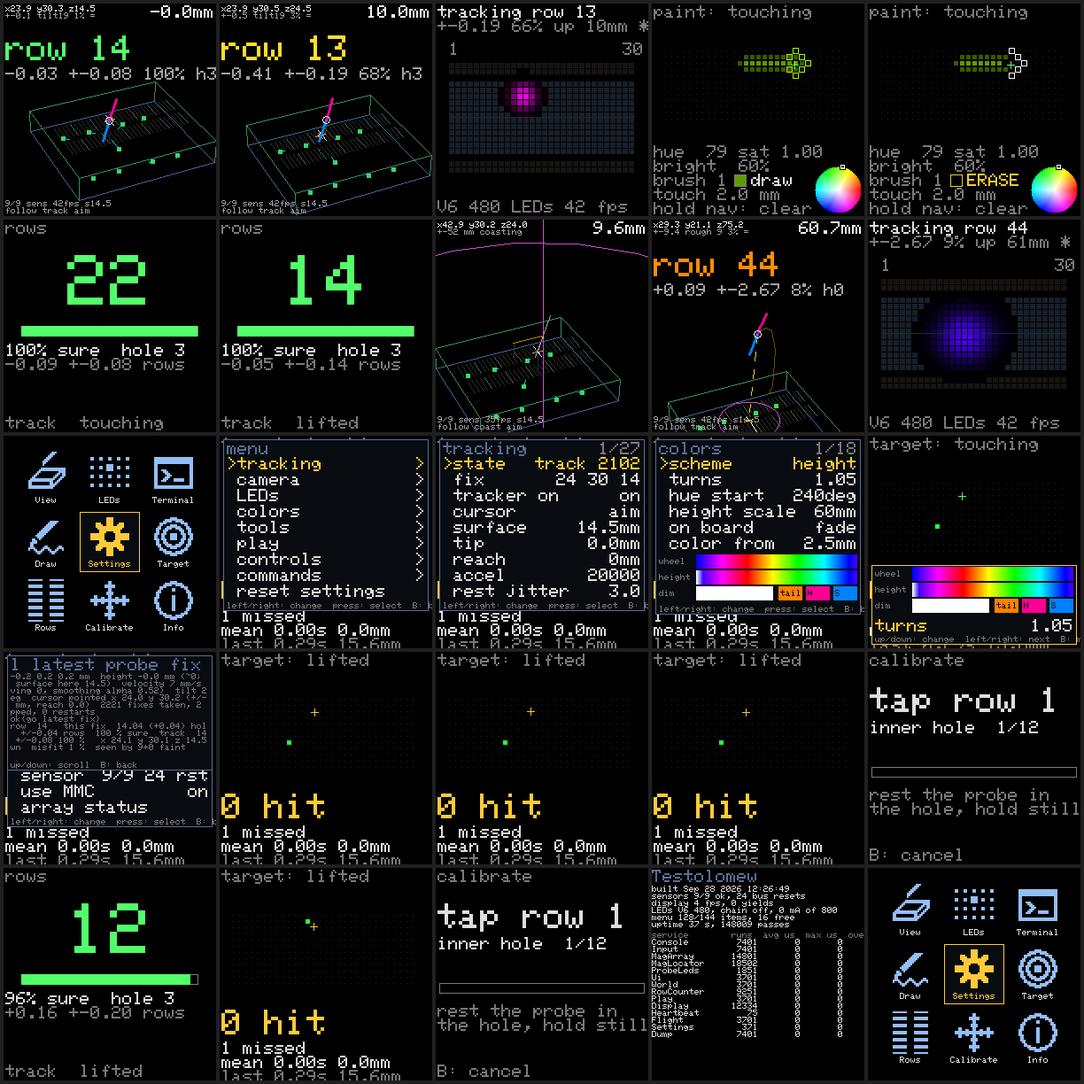
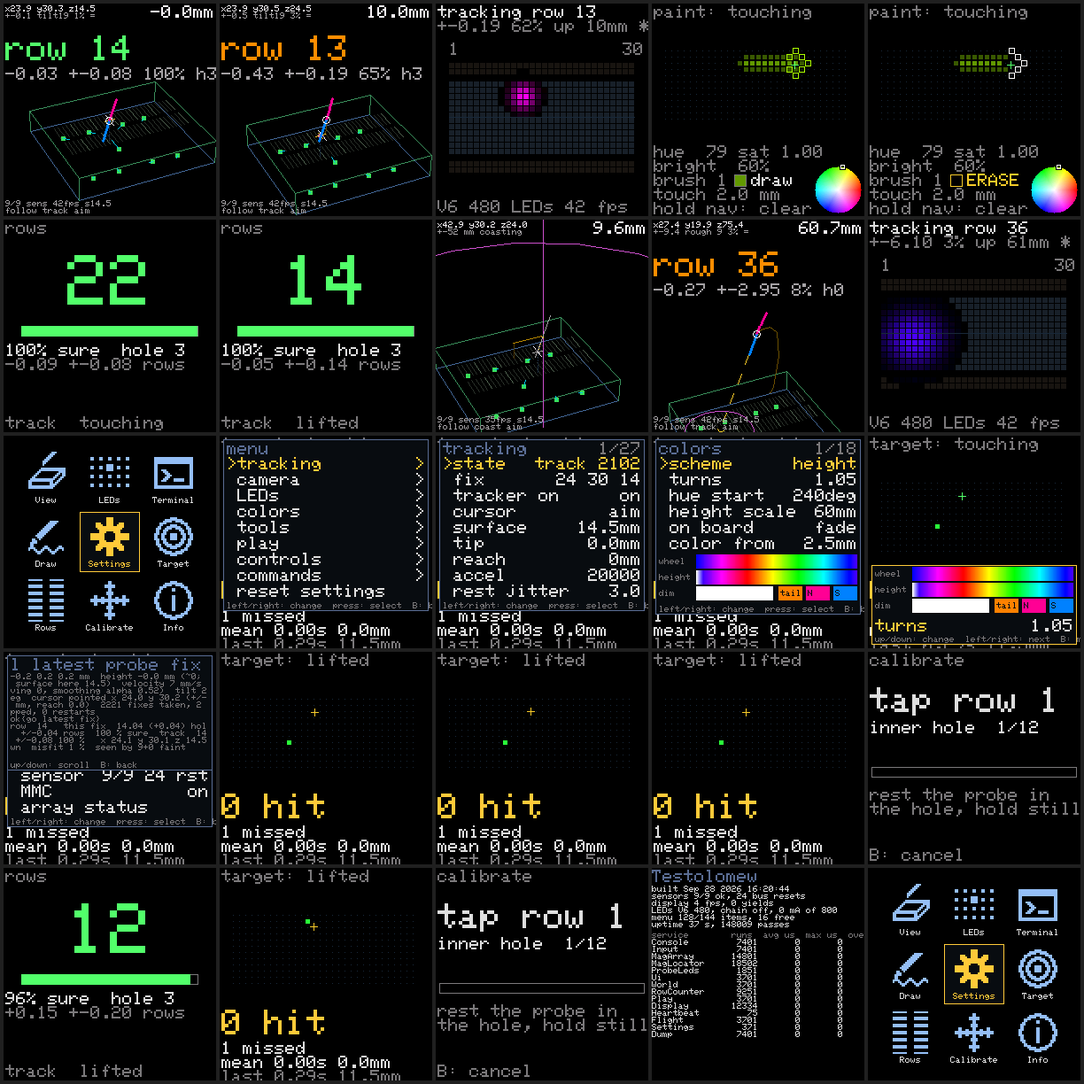
The MMC far only, and presence soft (Kevin, 2026-09-28: "we should use the mmc at far distances only (use mmc on - far - off), and make the gate for presence lower and smooth"). The tools page's "MMC" is a three-way, off / far / on (MagArray::mmcMode, MAG_MMC_MODE_AT_BOOT far, :mmc on|far|off; "use 

diff --git a/src/apps/SettingsMenu.cpp b/src/apps/SettingsMenu.cpp
@@ -261,8 +261,8 @@ void settingsMenuBuild( Menu* m ) {
                  "The array's systematic error, mm, added to every fix's error bar. The tracker's gate and weights use it, and the LED spot's width." );
     menuAddNumber( m, tracking, "gate", &magLocator.track.gate, 2.0f, 8.0f, 0.5f, "sd",
                  "A fix further than this many error bars from the track counts for less; past 11 it is dropped. Lower: more fixes ignored on a jump. Tracker on only." ); // (to 10 until 2026-09-25: the drop line is 11.3, past 8 the soft zone is nothing)
-    menuAddNumber( m, tracking, "presence", &magLocator.presentMt, 0.02f, 0.20f, 0.01f, "mT",
-                 "The strongest reading, mT, above which a magnet is there - two TMAGs must read it. Lower reaches further out; too low and a sensor's zero drift passes as a magnet (the toggles on :load say)." ); // (0.04-0.20 on 2026-09-25: below the TMAGs' plain level the lever did nothing, presence needing two of them at 0.04 anyway; since 2026-09-26 the two TMAGs are asked for the lever's level, so below 0.04 it reaches further out - as far as the zeros' drift allows)
+    menuAddNumber( m, tracking, "presence", &magLocator.presentMt, 0.005f, 0.20f, 0.005f, "mT",
+                 "The strongest reading, mT, above which a magnet is there - two TMAGs must read it, or the MMC. Lower reaches further out; too low and a sensor's zero drift passes as a magnet (the toggles on :load say). The LEDs fade in over the band from half of this to one and a half times it, so the far edge is soft." ); // (0.04-0.20 on 2026-09-25: below the TMAGs' plain level the lever did nothing, presence needing two of them at 0.04 anyway; since 2026-09-26 the two TMAGs are asked for the lever's level, so below 0.04 it reaches further out - as far as the zeros' drift allows)
     menuAddNumber( m, tracking, "fit chi", &magLocator.fitMaxChi, 1.0f, 6.0f, 0.5f, "",
                  "The fit's acceptance: its leftover residuals over the sensors' own errors. About 1 is a fit as good as the readings. Higher accepts more frames, wrong ones included; lower refuses more, and a refused frame is a gap." );
     menuAddNumber( m, tracking, "far hold", &magLocator.track.roughHoldS, 0.5f, 10.0f, 0.5f, "s",
@@ -384,8 +384,8 @@ void settingsMenuBuild( Menu* m ) {
     menuAddAction( m, tools, "latest fix", 'l', runConsoleKey, false );
     menuAddInfo( m, tools, "sensors", sensorsInfo,
                  "How many sensors answer, and the frame rate. Info only." );
-    menuAddToggle( m, tools, "use MMC", &magArray.useMmc,
-                 "The MMC56x3 at the centre in the fit, or ignored. It is the far sensor, 30-50x quieter than a TMAG, but near the board its readings have been sketchy." ); // the MMC56x3 in the fit or ignored (MAG_USE_MMC_AT_BOOT: off)
+menuAddChoice( m, tools, "MMC", &magArray.mmcMode, magMmcModeNames, MAG_MMC_MODE_COUNT,
+                   "The MMC56x3 at the centre, 30-50x quieter than a TMAG. off: read and shown, ignored. far: in the fit only as the TMAGs' error bar opens up (from 8 mm, all in at 16) and out near the board, where its readings have been sketchy; its word counts for presence, so a far probe is met sooner. on: in throughout." ); // the MMC56x3 in the fit or ignored (MAG_USE_MMC_AT_BOOT: off)
     menuAddAction( m, tools, "array status", 'm', runConsoleKey, false );
     menuAddAction( m, tools, "bus check", 'b', runConsoleKey, false );
     menuAddAction( m, tools, "power-cycle", 'p', runConsoleKey, true );

diff --git a/src/magfit/MagLocator.cpp b/src/magfit/MagLocator.cpp
@@ -607,6 +607,25 @@ ServiceStatus MagLocator::fitFrame( MagTrackInput* in ) {
     // (MagArray::frameWeights - the MMC56x3 counts for ~37 TMAGs where it
     // reads noise, for one close in).
     magArray.frameWeights( smooth, f.weights );
+    // How open the direction is (0 with the TMAGs' bar under MAGLOC_PRIOR_FROM_MM,
+    // 1 at twice it): the axis prior's weight, and - the MMC in its far mode -
+    // the MMC's share of the fit, ramped in as the TMAGs run out of reach and
+    // out of the fit near the board, where its readings have been sketchy
+    // (2026-09-28, Kevin: "use the mmc at far distances only").
+    {
+        float lastBar = fix.valid ? fix.errorMm : 2.0f * MAGLOC_PRIOR_FROM_MM;
+        f.far = ( lastBar - MAGLOC_PRIOR_FROM_MM ) / MAGLOC_PRIOR_FROM_MM;
+        f.far = f.far < 0.0f ? 0.0f : ( f.far > 1.0f ? 1.0f : f.far );
+        if ( magArray.mmcMode == MAG_MMC_FAR ) {
+            for ( int i = 0; i < magArray.sensorCount( ) && i < MAGFIT_MAX_SENSORS; i++ ) {
+                if ( magSensorPlaces[ i ].type != MAG_MMC56X3 )
+                    continue;
+                f.weights[ i ] *= f.far;
+                if ( f.far <= 0.0f )
+                    f.use[ i ] = false; // not even in the chi: near the board it is not a witness
+            }
+        }
+    }
     // The Z axis counts by its quietness, as far as the noise is the error: near
     // the magnet the error is the model's share of the field (MAG_MODEL_ERROR:
     // the table's gains and places, the dipole approximation), on every axis
@@ -627,7 +646,7 @@ ServiceStatus MagLocator::fitFrame( MagTrackInput* in ) {
     // the sensor that sees a far probe alone. Without it, one TMAG5273 above
     // the seen level is its stale zero after a boot, and this clause would
     // run the lattice on it every 400 ms until the absorb took it.)
-    f.enough = fix.seenBy + fix.faintBy >= MAGLOC_MIN_SENSORS || ( f.held > 0.0f && magArray.useMmc && fix.seenBy >= 1 );
+    f.enough = fix.seenBy + fix.faintBy >= MAGLOC_MIN_SENSORS || ( f.held > 0.0f && magArray.mmcMode != MAG_MMC_OFF && fix.seenBy >= 1 );
     ServiceStatus status;
     if ( !fix.present || !f.enough ) {
         if ( result.valid ) {
@@ -1052,9 +1071,7 @@ ServiceStatus MagLocator::runFit( MagTrackInput* in, FrameScratch& f ) {
     // the board: 8 mm), at twice that they do not (the MMC alone at 90 mm:
     // 18 mm; the TMAGs alone at 55 mm, at their noise floor: 14) and the
     // prior - the last near fix's pole, the lean the hand had - has its say.
-    float lastBar = wasTracking && fix.valid ? fix.errorMm : 2.0f * MAGLOC_PRIOR_FROM_MM;
-    float priorWeight = ( lastBar - MAGLOC_PRIOR_FROM_MM ) / MAGLOC_PRIOR_FROM_MM;
-    priorWeight = priorWeight < 0.0f ? 0.0f : ( priorWeight > 1.0f ? 1.0f : priorWeight );
+    float priorWeight = f.far;
     bool freeGood = false;
     if ( f.hintFree && f.good && result.coldStage == 0 && result.signal > 0.0f && result.strength > 0.0f ) {
         float freeMisfit = result.residual / result.signal;

diff --git a/src/magarray/MagArray.cpp b/src/magarray/MagArray.cpp
@@ -29,6 +29,8 @@
 #define MAG_BUS_FAULT_STREAK 3
 #define MAG_BUS_FAULT_RETRY_RUNS 8
 
+const char* const magMmcModeNames[ MAG_MMC_MODE_COUNT ] = { "off", "far", "on" };
+
 MagArray& magArray = MagArray::getInstance( );
 
 MagArray& MagArray::getInstance( ) {
@@ -105,12 +107,14 @@ static void onWeightVerb( int argc, char** argv, Stream* out ) {
 
 static void onMmcVerb( int argc, char** argv, Stream* out ) {
     if ( argc < 2 ) {
-        consoleErr( out, "usage: :mmc on|off (the MMC56x3 in or out of the fit; the menu's sensors/use MMC) | :mmc <sensor> [cfg <odrHz> <bw 0-3> <autoSR 0|1>]" );
+        consoleErr( out, "usage: :mmc on|far|off (the MMC56x3 in the fit throughout, far only, or out; the menu's tools/MMC) | :mmc <sensor> [cfg <odrHz> <bw 0-3> <autoSR 0|1>]" );
         return;
     }
-    if ( strcmp( argv[ 1 ], "on" ) == 0 || strcmp( argv[ 1 ], "off" ) == 0 ) {
-        magArray.useMmc = argv[ 1 ][ 1 ] == 'n';
-        consoleOk( out, magArray.useMmc ? "the MMC56x3 is in the fit (and presence, and the far regime)" : "the MMC56x3 is out: read and shown, ignored by the locator - the eight TMAG5273s as before" );
+    if ( strcmp( argv[ 1 ], "on" ) == 0 || strcmp( argv[ 1 ], "off" ) == 0 || strcmp( argv[ 1 ], "far" ) == 0 ) {
+        magArray.mmcMode = argv[ 1 ][ 1 ] == 'n' ? MAG_MMC_ON : ( argv[ 1 ][ 0 ] == 'f' ? MAG_MMC_FAR : MAG_MMC_OFF );
+        consoleOk( out, magArray.mmcMode == MAG_MMC_ON    ? "the MMC56x3 is in the fit throughout (and presence, and the far regime)"
+                        : magArray.mmcMode == MAG_MMC_FAR ? "the MMC56x3 is in far only: ramped into the fit as the TMAGs' bar opens up, its word for presence, out near the board"
+                                                          : "the MMC56x3 is out: read and shown, ignored by the locator - the eight TMAG5273s as before" );
         return;
     }
     int i = atoi( argv[ 1 ] );
@@ -1354,7 +1358,7 @@ int MagArray::enabledCount( ) const {
 void MagArray::useSimulatedFrames( ) {
     simulatedFrames = true;
     trustAllSensors = true;
-    useMmc = true; // the simulated MMC56x3 is perfect: the benches (pencil, soak) keep their numbers, the scenes say :mmc on|off themselves
+    mmcMode = MAG_MMC_ON; // the simulated MMC56x3 is perfect: the benches (pencil, soak) keep their numbers, the scenes say :mmc on|far|off themselves
     samplerOn = false;
     for ( int i = 0; i < MAG_SENSOR_COUNT; i++ ) {
         zeroKnown[ i ] = true;

diff --git a/src/magarray/MagArray.h b/src/magarray/MagArray.h
@@ -82,6 +82,14 @@ struct MagBus {
 Vec3 magSensorToBoard( Vec3 reading, float rotationDeg, bool underside, bool zIntoTop = true );
 Vec3 magBoardToSensor( Vec3 field, float rotationDeg, bool underside, bool zIntoTop = true );
 
+enum MagMmcMode {
+    MAG_MMC_OFF,
+    MAG_MMC_FAR,
+    MAG_MMC_ON,
+    MAG_MMC_MODE_COUNT
+};
+extern const char* const magMmcModeNames[ MAG_MMC_MODE_COUNT ];
+
 class MagArray : public Service {
   public:
     static MagArray& getInstance( );
@@ -140,10 +148,13 @@ class MagArray : public Service {
     // fresh[], to the fit; everything else (the scene, `m`, `f`) sees it.
     bool usedInFit( int i ) const;
     bool trustAllSensors = false; // the host simulation: every simulated sensor is calibrated and zeroed
-    // The MMC56x3 in or out (MAG_USE_MMC_AT_BOOT; the menu's "sensors / use
-    // MMC"): out, it is read and shown but ignored by the locator entirely.
-    bool useMmc = MAG_USE_MMC_AT_BOOT;
-    bool ignored( int i ) const { return i >= 0 && i < MAG_SENSOR_COUNT && magSensorPlaces[ i ].type == MAG_MMC56X3 && !useMmc; }
+    // The MMC56x3: off, far or on (MAG_MMC_MODE_AT_BOOT; the menu's "MMC" on
+    // the tools page, :mmc on|far|off). Off, it is read and shown but ignored
+    // by the locator entirely; far, the locator ramps it into the fit as the
+    // TMAGs' bar opens up (MagLocator, MAGLOC_PRIOR_FROM_MM) and takes its
+    // word for presence; on, it is in throughout.
+    int mmcMode = MAG_MMC_MODE_AT_BOOT;
+    bool ignored( int i ) const { return i >= 0 && i < MAG_SENSOR_COUNT && magSensorPlaces[ i ].type == MAG_MMC56X3 && mmcMode == MAG_MMC_OFF; }
     bool saturated[ MAG_SENSOR_COUNT ] = { false }; // it read full scale in the latest frame
     float temperatureC[ MAG_SENSOR_COUNT ] = { 0 }; // die temperature of each sensor (TMAG5273 with the channel on)
     // How much the fit should trust each sensor, from its type's noise

diff --git a/test/test_probeleds/test_probeleds.cpp b/test/test_probeleds/test_probeleds.cpp
@@ -60,6 +60,7 @@ static ProbeLedInput at( float along, float acrossMm, float sigmaRows, float sig
     in.sigmaRows = sigmaRows;
     in.sigmaAcrossMm = sigmaAcrossMm;
     in.confidence = 1.0f;
+    in.presence = 1.0f; // well within presence (the edge fades the peak, 2026-09-28)
     return in;
 }
 
@@ -526,6 +527,20 @@ void test_sparkle_density_follows_the_chosen_data( void ) {
 // own until then): the same colour by height, the same peak, as wide as its
 // bar - held at the widest allowed - so a far fix at the peak is a broad
 // patch the chain's current budget dims as a whole. Nothing: dark.
+// The edge of presence is soft: the peak scales with how far the strongest
+// reading is above the lever (2026-09-28).
+void test_the_edge_of_presence_fades( void ) {
+    style.fullPeak = true;
+    ProbeLedInput in = at( 14.0f, 6.35f, 0.05f, 0.2f );
+    int i = find( &v6, 14, 3 );
+    in.presence = 0.5f;
+    probeLedRender( &v6, &in, &style, 1.0f, &frame );
+    TEST_ASSERT_FLOAT_WITHIN( 0.02f, 0.5f * style.peak, frame.target[ i ] );
+    in.presence = 0.0f;
+    probeLedRender( &v6, &in, &style, 1.0f, &frame );
+    TEST_ASSERT_TRUE( frame.target[ i ] < 0.01f );
+}
+
 void test_far_probe_is_drawn_like_any_other( void ) {
     style.fullPeak = true;
     ProbeLedInput in = at( 20.0f, 0.0f, 6.0f, 12.0f );
@@ -825,6 +840,7 @@ int main( int argc, char** argv ) {
     RUN_TEST( test_aim_scheme_colours_by_the_lean );
     RUN_TEST( test_brightness_follows_the_chosen_data );
     RUN_TEST( test_sparkle_density_follows_the_chosen_data );
+    RUN_TEST( test_the_edge_of_presence_fades );
     RUN_TEST( test_far_probe_is_drawn_like_any_other );
     RUN_TEST( test_pointed_tail_points_back_at_the_tip );
     RUN_TEST( test_leds_fade_rather_than_snap );

diff --git a/src/probeled/ProbeLedService.cpp b/src/probeled/ProbeLedService.cpp
@@ -308,6 +308,12 @@ ServiceStatus ProbeLedService::service( ) {
         if ( in.aimDeg < 0.0f )
             in.aimDeg += 360.0f;
         in.speedMmS = sqrtf( track.velocity.x * track.velocity.x + track.velocity.y * track.velocity.y + track.velocity.z * track.velocity.z ); // 0 with the tracker off
+        // The edge of presence, soft: the strongest reading against the lever
+        // (0 at half of it, where the hysteresis lets go; 1 at one and a half
+        // times it), so a far probe fades rather than switches (2026-09-28).
+        float lever = magLocator.presentMt > 0.0f ? magLocator.presentMt : 0.02f;
+        in.presence = ( magLocator.fix.peakLevel - 0.5f * lever ) / lever;
+        in.presence = in.presence < 0.0f ? 0.0f : ( in.presence > 1.0f ? 1.0f : in.presence );
         if ( track.reachMm > 0.5f ) {
             Vec3 under = { tip.x, tip.y, magLocator.surfaceAt( tip.x, tip.y ) };
             RowPlace u = rowGridPlace( &grid, under );

diff --git a/src/magfit/MagLocator.h b/src/magfit/MagLocator.h
@@ -588,6 +588,7 @@ class MagLocator : public Service {
         bool use[ MAGFIT_MAX_SENSORS ];      // may vote in the fit
         float alpha = 1.0f;                  // the smoothing this frame
         float weights[ MAGFIT_MAX_SENSORS ]; // each sensor's weight in the fit this frame
+        float far;                           // how open the direction is, 0..1, by the last accepted fix's 3D bar (MAGLOC_PRIOR_FROM_MM): the axis prior's weight, and the MMC's share in its far mode
         float held = 0.0f;                   // the strength held (0 = free)
         int plain = 0;                       // sensors reading plainly (above their plain level)
         bool hintFree = false;               // the free fit ran with no strength hint: the readings pinned it (a measurement)

diff --git a/src/magarray/MagArrayConfig.h b/src/magarray/MagArrayConfig.h
@@ -72,7 +72,11 @@ enum MagSensorType {
 // added that one" - off by default until its calibration close in (the
 // lumped gain 12 % off) and its bus (a missed frame or two every second)
 // are sorted.
-#define MAG_USE_MMC_AT_BOOT false
+// The MMC56x3 at boot: MAG_MMC_OFF (read and shown, ignored by the locator),
+// MAG_MMC_FAR (in the fit and presence only as the TMAGs' bar opens up - the
+// far sensor by design, its readings near the board sketchy: 2026-09-28,
+// Kevin), MAG_MMC_ON (in throughout). The menu's "MMC" on the tools page.
+#define MAG_MMC_MODE_AT_BOOT MAG_MMC_FAR
 
 // How much the fit trusts each sensor: weight = MAG_WEIGHT_REFERENCE_MT /
 // (the type's noise a frame), capped at MAG_WEIGHT_CAP - so a TMAG5273 is

diff --git a/src/probeled/ProbeLeds.cpp b/src/probeled/ProbeLeds.cpp
@@ -456,6 +456,7 @@ void probeLedRender( const LedLayout* layout, const ProbeLedInput* in, const Pro
         // (unsure by default: a coin-toss row at half), and a coasting
         // track a little dimmer.
         schemeColour( style, in, frame->timeS, &r, &g, &b );
+        peak *= clamp01( in->presence ); // soft at the edge of presence (2026-09-28)
         // ...by the chosen data, SIGNED (2026-09-28): +1 doubles the peak at the
         // data's far end (a fast hand, a lifted probe), -1 takes it to nothing;
         // never past the full peak, which the LEDs cannot show.

diff --git a/src/probeled/ProbeLeds.h b/src/probeled/ProbeLeds.h
@@ -150,6 +150,7 @@ struct ProbeLedInput {
     float tiltDeg;  // the probe's lean from vertical (0 = straight up)...
     float aimDeg;   // ...and which way it leans, degrees round the board (0 = +x, along the rows)
     float speedMmS; // how fast the magnet is moving
+    float presence; // 0..1: how far the strongest reading is above the presence level - 0 at half the lever, 1 at one and a half times it; the peak scales by it, so the far edge fades rather than switches (2026-09-28)
 };
 
 enum ProbeLedScheme {

diff --git a/src/apps/ColourPreview.cpp b/src/apps/ColourPreview.cpp
@@ -51,6 +51,7 @@ static void wheel( float t, uint8_t* r, uint8_t* g, uint8_t* b ) {
 static void cursorAcross( float t, uint8_t* r, uint8_t* g, uint8_t* b ) {
     const ProbeLedStyle& s = probeLeds.style;
     ProbeLedInput in = { };
+    in.presence = 1.0f; // the preview shows the colours as within presence
     in.state = PROBELED_TRACKING;
     in.confidence = 1.0f;
     in.heightMm = s.liftFullMm; // lifted: all the colour (the height scheme runs the height itself)

diff --git a/docs/knobs.md b/docs/knobs.md
@@ -58,7 +58,7 @@ One page for everything continuous about the probe's pose (2026-09-25; the track
 | shaft Hz / shaft beta | the same for the shaft direction (the angle the pointer projects along): beta's effect is under 3 (0: 5.2 deg turning; 1: 2.7; 3: 2.2; 10: 1.9), 0-10 in quarters | 1.0 / 10 |
 | floor | `sigmaFloorMm` - the array's systematic error added to every fix's error bar (mm); the tracker's gate and weights use it, and the glow's width | 0.4 |
 | gate | fixes further than this many sigmas from the track count for less (Huber); the drop line is 11.3 (compile-time), so 2-8 (to 10 until 2026-09-25: past 8 the soft zone was nothing) | 4.0 |
-| presence | `presentMt` - the strongest smoothed reading (mT) above which a magnet is "there"; hysteresis to three quarters / half. 0.02-0.20. Presence also wants TWO TMAGs reading at this level (one alone is its zero), at 0.04 whatever the lever until 2026-09-26 - so the lever did nothing below 0.04, and its range was 0.04-0.20 for a day; now the two are asked for the lever's level, and a strong magnet (the bench's, ~11600 mT*mm^3, reads 0.04 mT at ~65-80 mm) is met further out at 0.03 or 0.02 - as far as the zeros' drift allows: lower it, leave the probe away a minute, and `:load`'s presence toggles say whether the zeros pass as a magnet at that level. To find what ends the track on a lift: `d` on, lift slowly, then `l` and `:load` at the cut - "nothing present", "too few noticing" (three sensors at 0.015 mT) or a refused fit (the chi, the bar) | 0.04 |
+| presence | `presentMt` - the strongest smoothed reading (mT) above which a magnet is "there"; hysteresis to three quarters / half. 0.005-0.20 (0.02 the floor until 2026-09-28 evening). Presence also wants TWO TMAGs reading at this level (one alone is its zero), at 0.04 whatever the lever until 2026-09-26 - so the lever did nothing below 0.04, and its range was 0.04-0.20 for a day; now the two are asked for the lever's level, and a strong magnet (the bench's, ~11600 mT*mm^3, reads 0.04 mT at ~65-80 mm) is met further out at 0.03 or 0.02 - as far as the zeros' drift allows: lower it, leave the probe away a minute, and `:load`'s presence toggles say whether the zeros pass as a magnet at that level. To find what ends the track on a lift: `d` on, lift slowly, then `l` and `:load` at the cut - "nothing present", "too few noticing" (three sensors at 0.015 mT) or a refused fit (the chi, the bar) | 0.04 | The LEDs fade in over the band from half the lever to one and a half times it (`ProbeLedInput::presence`), so the far edge is soft, not a switch (2026-09-28: "make the gate for presence lower and smooth").
 | far hold | how long a track whose last fix was a WIDE one (the probe far up: a bar over 5 mm, `MAGTRACK_FAR_BAR_MM`) outlives it (s); near the board a track coasts 0.4 s. (Until 2026-09-28 midday it was the ROUGH track's hold, and a fix wider than 5 mm went to the tracker as rough - no shaft, no velocity, a calmer process noise, held still - so the LEDs jumped where the fix sharpened past that line, the aim cursor by its whole reach as the shaft snapped in: every accepted fix is a fix now, its bar the weight, and the filters' slowing with height does the far calming) | 1.0 (3 since the bench's defaults) |
 | fit chi | `fitMaxChi` - the fit's acceptance: the rms of its residuals over each sensor's own expected error (its noise as smoothed, its zero's doubt, the model's 6 % share); about 1 is a fit as good as the readings. Loosen it at the bench if real fixes fail it (the fix line prints the chi) | 2.0 |
 | fit load | `burst`: the fit costs what it costs - a few ms a frame while tracking, and a cold start (the lattice, its refinement, up to seven seeds) as slices 25 ms apart while hunting. `steady`: exactly `fit iters` refinement iterations every frame with a magnet present, converged or not, the cold start resumed a slice a frame - the same work every 10 ms, so the V5F's supply current does not swing. On the nanoCH32H417 the LCD backlight hangs on the same LDO and showed the bursts (2026-09-20); steady was Kevin's idea | burst |
@@ -111,7 +111,7 @@ The cursor's colours - the page is `colors` in US spelling since 2026-09-28 (`co
 | field arrows | the sensors' field arrows in the View: their length as a fraction of what it was (0 = none). Their length grows with the field (logarithmically), so a stronger magnet draws longer ones | 1.0 |
 
 ### tools
-The one-shot things (2026-09-25; the magnet, sensors and rows pages until then), in that order: the magnet - `strength` info, `learn strength` (`k`: hold the fit to this magnet's strength), `forget strength` (`K`), `re-zero (away!)` (`z`: the probe well clear of the board), `orientation check` (`o`), `latest fix` (`l`); the sensors - `sensors` info, `use MMC` *(saved)*, `array status` (`m`), `bus check` (`b`), `power-cycle` (`p`), `service table` (`X`), `saved settings` (`s`); the rows, below.
+The one-shot things (2026-09-25; the magnet, sensors and rows pages until then), in that order: the magnet - `strength` info, `learn strength` (`k`: hold the fit to this magnet's strength), `forget strength` (`K`), `re-zero (away!)` (`z`: the probe well clear of the board), `orientation check` (`o`), `latest fix` (`l`); the sensors - `sensors` info, `MMC` *(saved; off / far / on, 2026-09-28: `far` - the default - ramps the MMC into the fit only as the TMAGs' bar opens up, from 8 mm to all in at 16, and out near the board where its readings have been sketchy; its word counts for presence in far and on; `use MMC`, a toggle, until then)*, `array status` (`m`), `bus check` (`b`), `power-cycle` (`p`), `service table` (`X`), `saved settings` (`s`); the rows, below.
 
 `row mode` *(mode)* (`r`; on at boot) - which breadboard row the probe is over, on the LCD (the View and Rows apps) and console; `row` info; `calibrate 12 taps` (opens the Calibrate app; `c` on the console) - since 2026-09-28 the taps' resting heights also fit the SURFACE MAP (`src/magfit/SurfaceMap`: a plane from three taps, a quadratic from six), so the reported height reads the same in every hole where a tilted or bowed board read 2-3 mm off at the far end; `surface` becomes the height at the taps' centre and the map says how it runs elsewhere (held at its edge beyond the taps; `c` prints the tilt along and across and the worst tap's miss); `anchor at row` adds a tap to it, `forget anchors` flattens it; `calibrate lean` (2026-09-28: the point resting in ONE hole, held still straight up and then leaning five ways as the screen asks, 30-45 degrees; the Calibrate app shows the prompt and the bar) learns the TIP MODEL (`src/magfit/TipModel`): the magnet's distance up the shaft as `tip`, and the fix's own lean bias as a 2 x 2 on the lean (along the rows and across are not the same) plus a vertical distance, so a leaning probe's point stays in its hole where an uncalibrated 3 mm of tip put it a row off at 40 degrees; saved as `tipmodel=`; `forget lean` drops it (the plain `tip` along the shaft again), as does editing `tip` by hand; the console's `q` (a sample) and `Q` (solve) go through the same solver; `anchor at row` (the row stepped in place with left/right, then the press: `R<row>` with the probe in that row's hole next to the channel); `forget anchors` (`C`, asks first); `hold-still test` (`h`). A tap or a hold now lets a second go by while the hand settles, then measures two seconds. The grid the board boots with is `ROWCOUNT_GRID_AT_BOOT` (the 2026-09-17 calibration); the breadboard has moved since - it reads ~1.7 rows off at row 20 and puts a touching tip in the channel near the centre line - **anchoring is still to do**: `R20` in row 20's channel-side hole, `R50` likewise.
 
@@ -158,6 +158,8 @@ The contacts settle 10 ms before any of this; nothing is debounced twice. `j` pr
 ## 4. Compile-time knobs changed in this session, and why
 
 Values are the ones in the tree now. "Where" is the header.
+
+**2026-09-28 evening, the MMC far only, and presence soft** (Kevin: "we should use the mmc at far distances only (use mmc on - far - off), and make the gate for presence lower and smooth"). The tools page's `MMC` is off / far / on (`MagArray::mmcMode`, `MAG_MMC_MODE_AT_BOOT` far, `:mmc on|far|off`): in far mode the locator scales the MMC's fit weight by the same 0..1 as the axis prior - the last accepted fix's 3D bar from `MAGLOC_PRIOR_FROM_MM` (8 mm) to twice it - and leaves it out of the chi below that, so near the board the fit is the TMAGs' and far up the MMC comes in as they run out; its word counts for presence in far and on, so a far probe is met where the MMC sees it. Presence's floor is 0.005 (0.02 before), and its edge is soft: the LED service hands the renderer `presence`, the strongest reading against the lever (0 at half of it, where the hysteresis lets go, 1 at one and a half times it), and the peak scales by it - a far probe fades in and out rather than switching. The old `use MMC` key retires (the default is far).
 
 **2026-09-28 afternoon, the axis prior only where the direction is open** (Kevin: "it's still going kinda crazy at that range, differently, but it's worse and more spazzy"). The sim hovering at a 30 degree lean: at 40 mm the fit's raw axis read 42 degrees and jittered 9, and the fix sat 5 mm low - and the same with the sensor noise switched off, so a bias of the fit, not filtering. Zeroing `MAGLOC_AXIS_PRIOR_MT` gave 30.7 degrees and a third of the misfit: the prior that leans the direction on the last good fix's pole (for the MMC's one-sensor far regime, where three numbers cannot pin it) was bending a fix the TMAGs pinned perfectly well. It tapers now with the last accepted fix's 3D bar (`MAGLOC_PRIOR_FROM_MM` 8: none under 8 mm, all of it from 16), so the MMC's one-sensor far regime at 90 mm (an 18 mm bar) keeps it (hover.txt), a 40 mm fix eight TMAGs pin (8 mm) has none - its axis then reads 31 for a true 30, noise or none - and at 55 mm, where the TMAGs are at their noise floor (14 mm), the last near fix's lean mostly holds the aim rather than the noise flailing it. Hovering at a 30 degree lean the aim cursor's wander is 0.8 rows at 25 mm, 1.2 at 40 (the axis +/-5 degrees: `shaft Hz` lower for calmer, later) and 6.6 at 55, where this magnet's field is at the sensors' noise - counts would not do: at 40 mm the sensors read 0.02-0.03 mT, under the scaled seen level, one "seeing" while eight pin the axis together. With it: the shaft's filter slows with the height like the cursor's (it ran unscaled; its beta by the square, since a far axis's noise reads as speed and opened it), and a swing past 45 degrees is believed only from a sharp fix (at 55 mm the noise swung past 45 two dozen times in six seconds, and each believed one snapped the shaft and emptied its filter).
 
@@ -208,7 +210,7 @@ Values are the ones in the tree now. "Where" is the header.
 | bright by / bright amount / sparkle by | unsure / 0.5 / height | none / 1 / none |
 | tail / tail length / tail bright / tail hue | off / 0.5 / 0.5 / 25 | off / 1 / 1 / 30 |
 | poles / pole size / north hue / south hue / field arrows | on / 5 / 3 / 225 / 1 | on / 14 / 325 / 210 / 1 |
-| use MMC | off | off |
+| MMC (was use MMC) | off | far |
 | play hue / sat / paint bright / brush / touch | 0 / 1 / 0.5 / 0 / 2 | 324 / 1 / 0.5 / 0 / 2 |
 | direction ms / push guard ms | 20 / 50 | 25 / 55 |
 | joy menu at / joy menu off / joy dead / cursor repeat / joystick | 0.25 / 0.15 / 0.10 / 300 / relative | 0.55 / 0.4 / 0.06 / 100 / relative |
